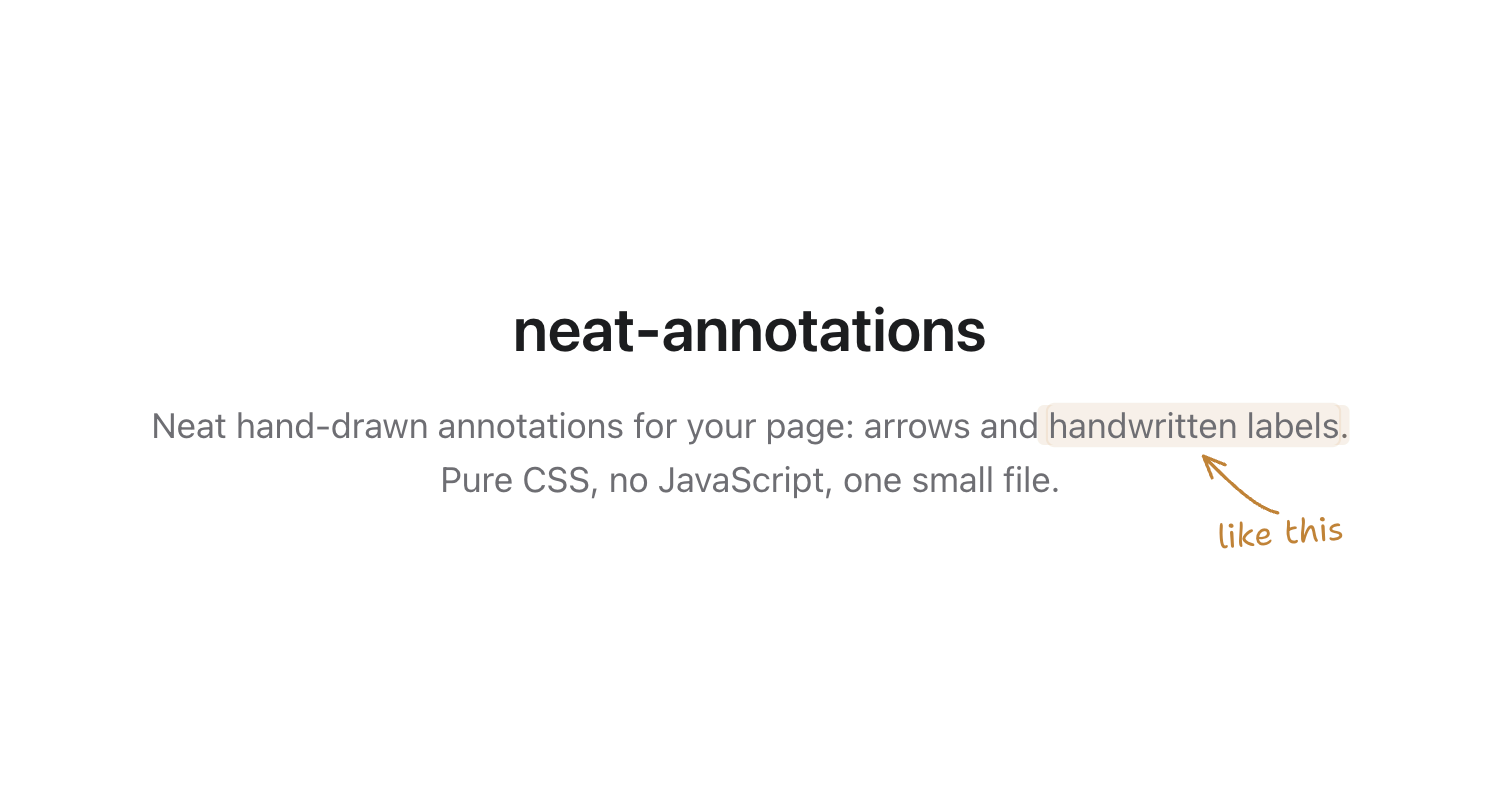
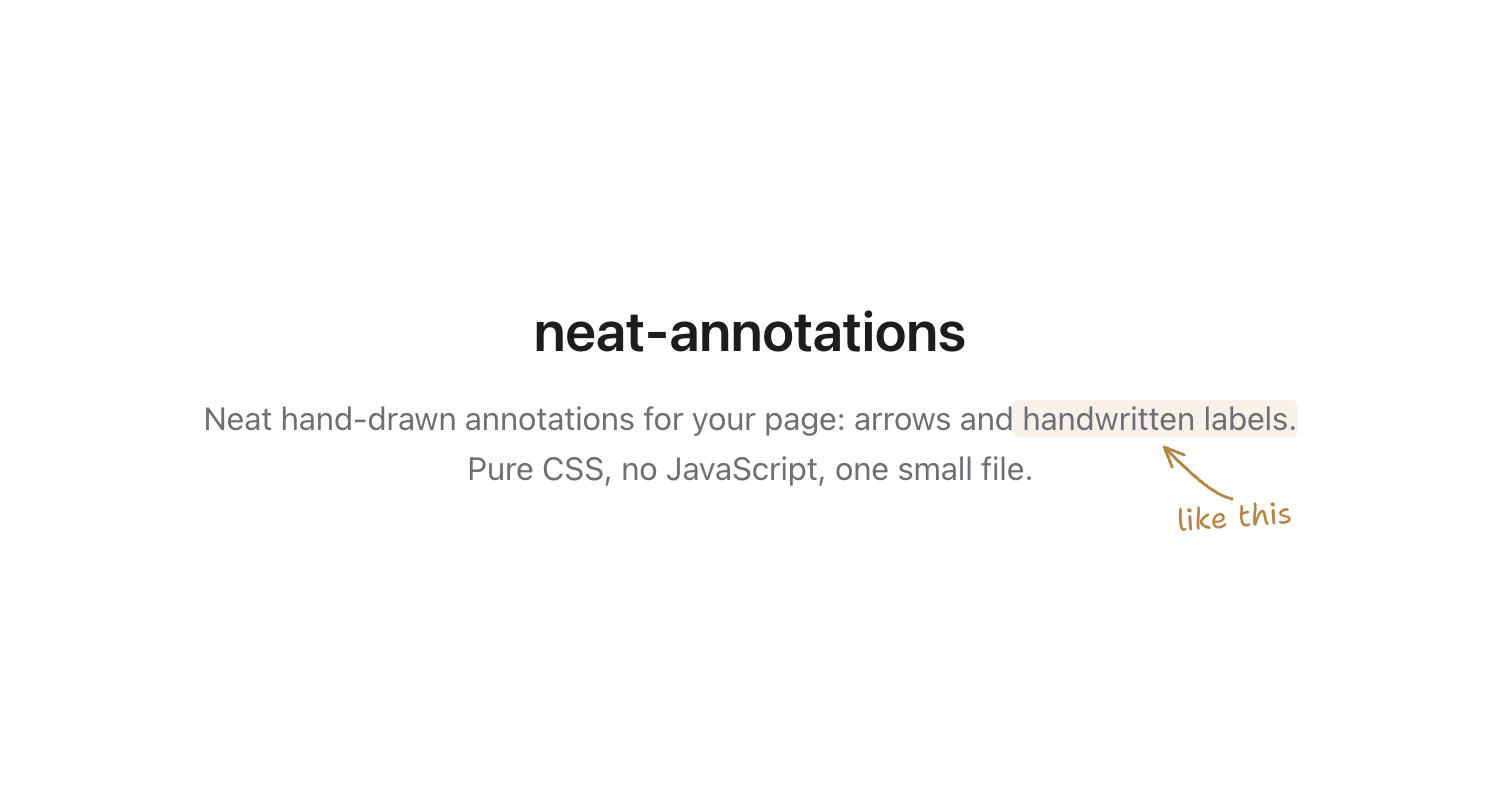
DOCS: add visual README examples
Restructure the README around quick-start and API sections, add Retina examples for basic use, directions, and colors, and keep a reusable HTML source for all preview assets.

Changed region(s): [[0.092, 0.5178, 0.8893, 0.7005], [0.3373, 0.3959, 0.6747, 0.4569]]

diff --git a/render-previews.html b/render-previews.html
@@ -1,0 +1,98 @@
+<!doctype html>
+<html lang="en">
+<head>
+<meta charset="utf-8">
+<meta name="viewport" content="width=device-width, initial-scale=1">
+<title>neat-annotations preview sources</title>
+<link rel="preconnect" href="https://fonts.googleapis.com">
+<link rel="preconnect" href="https://fonts.gstatic.com" crossorigin>
+<link href="https://fonts.googleapis.com/css2?family=Shantell+Sans:wght@400;500;600&display=swap" rel="stylesheet">
+<link rel="stylesheet" href="neat-annotations.css">
+<style>
+  :root { color-scheme: light; --ink: #1d1d1f; --ink-2: #6e6e73; }
+  * { box-sizing: border-box; }
+  body { margin: 0; padding: 48px; background: #ececef; color: var(--ink); font: 16px/1.55 -apple-system, BlinkMacSystemFont, "SF Pro Text", "Helvetica Neue", Arial, sans-serif; -webkit-font-smoothing: antialiased; }
+  .preview-source { width: fit-content; margin: 0 auto 64px; }
+  .preview-source:last-child { margin-bottom: 0; }
+  .preview-source h2 { margin: 0 0 12px; color: #6e6e73; font-size: 13px; font-weight: 600; }
+  .preview-frame { position: relative; overflow: hidden; background: #fff; }
+
+  #social-preview { display: grid; width: 750px; height: 394px; place-items: center; text-align: center; }
+  .social-preview-copy { transform: translateY(-2px); }
+  .social-preview-copy h1 { margin: 0 0 10px; font-size: 28px; font-weight: 600; letter-spacing: -.01em; }
+  .social-preview-copy p { margin: 0; color: var(--ink-2); }
+
+  #readme-basic { display: grid; width: 1000px; height: 450px; place-items: center; font-size: 24px; }
+  .readme-basic-copy { transform: translateY(-34px); }
+
+  #readme-directions { display: grid; width: 1000px; height: 500px; place-items: center; }
+  .readme-directions-grid { display: grid; grid-template-areas: "nw n ne" "w copy e" "sw s se"; grid-template-columns: repeat(3, minmax(0, 1fr)); width: 860px; }
+  .readme-direction { display: flex; align-items: center; justify-content: center; min-width: 0; height: 100px; }
+  .readme-direction-nw { grid-area: nw; }
+  .readme-direction-n { grid-area: n; }
+  .readme-direction-ne { grid-area: ne; }
+  .readme-direction-w { grid-area: w; }
+  .readme-directions-copy { grid-area: copy; align-self: center; padding: 20px; color: var(--ink-2); font-size: 14px; line-height: 1.45; text-align: center; }
+  .readme-direction-e { grid-area: e; }
+  .readme-direction-sw { grid-area: sw; }
+  .readme-direction-s { grid-area: s; }
+  .readme-direction-se { grid-area: se; }
+
+  #readme-colors { display: grid; width: 1000px; height: 280px; align-content: center; }
+  .readme-colors-copy { margin: 0 0 30px; color: var(--ink-2); text-align: center; }
+  .readme-colors-grid { display: grid; grid-template-columns: repeat(7, minmax(0, 1fr)); align-items: start; justify-items: center; padding: 0 36px 48px; }
+  #readme-colors .ann-rainbow { animation: none; }
+</style>
+</head>
+<body>
+<article class="preview-source">
+  <h2>social-preview.png · 1500 × 788 at 2×</h2>
+  <section class="preview-frame" id="social-preview">
+    <div class="social-preview-copy">
+      <h1>neat-annotations</h1>
+      <p>Neat hand-drawn annotations for your page: arrows and <span class="ann ann-nw ann-amber" data-note="like this">handwritten labels</span>.<br>Pure CSS, no JavaScript, one small file.</p>
+    </div>
+  </section>
+</article>
+
+<article class="preview-source">
+  <h2>assets/readme-basic.png · 2000 × 900 at 2×</h2>
+  <section class="preview-frame" id="readme-basic">
+    <div class="readme-basic-copy">The dashboard updates <span class="ann ann-n ann-amber" data-note="no refresh needed">in real time</span></div>
+  </section>
+</article>
+
+<article class="preview-source">
+  <h2>assets/readme-directions.png · 2000 × 1000 at 2×</h2>
+  <section class="preview-frame" id="readme-directions">
+    <div class="readme-directions-grid">
+      <div class="readme-direction readme-direction-nw"><span class="ann ann-nw" data-note=".ann-nw">target</span></div>
+      <div class="readme-direction readme-direction-n"><span class="ann ann-n" data-note=".ann-n">target</span></div>
+      <div class="readme-direction readme-direction-ne"><span class="ann ann-ne" data-note=".ann-ne">target</span></div>
+      <div class="readme-direction readme-direction-w"><span class="ann ann-w" data-note=".ann-w">target</span></div>
+      <div class="readme-directions-copy">Follow compass directions for arrows.</div>
+      <div class="readme-direction readme-direction-e"><span class="ann ann-e" data-note=".ann-e">target</span></div>
+      <div class="readme-direction readme-direction-sw"><span class="ann ann-sw" data-note=".ann-sw">target</span></div>
+      <div class="readme-direction readme-direction-s"><span class="ann ann-s" data-note=".ann-s">target</span></div>
+      <div class="readme-direction readme-direction-se"><span class="ann ann-se" data-note=".ann-se">target</span></div>
+    </div>
+  </section>
+</article>
+
+<article class="preview-source">
+  <h2>assets/readme-colors.png · 2000 × 560 at 2×</h2>
+  <section class="preview-frame" id="readme-colors">
+    <p class="readme-colors-copy">Five colors and an animated rainbow, plus a warm-gray default.</p>
+    <div class="readme-colors-grid">
+      <span class="ann ann-n" data-note="default">plain</span>
+      <span class="ann ann-n ann-amber" data-note="ann-amber">amber</span>
+      <span class="ann ann-n ann-blue" data-note="ann-blue">blue</span>
+      <span class="ann ann-n ann-green" data-note="ann-green">green</span>
+      <span class="ann ann-n ann-red" data-note="ann-red">red</span>
+      <span class="ann ann-n ann-purple" data-note="ann-purple">purple</span>
+      <span class="ann ann-n ann-rainbow" data-note="ann-rainbow">rainbow</span>
+    </div>
+  </section>
+</article>
+</body>
+</html>

diff --git a/README.md b/README.md
@@ -4,83 +4,113 @@
 
 # neat-annotations
 
-Neat hand-drawn CSS annotations: arrows and handwritten labels pointing at things on your page. Pure CSS, no JavaScript, no build step — one self-contained file.
+Hand-drawn arrows and handwritten labels for your website. Pure CSS, no JavaScript, no build step — one self-contained file.
 
-**[Demo →](https://syabro.github.io/neat-annotations/)**
+[Demo](https://neat-annotations.syabro.com/) · [CSS file](neat-annotations.css) · [GitHub](https://github.com/syabro/neat-annotations)
 
-## Use
+## Quick start
 
-Copy [`neat-annotations.css`](neat-annotations.css) into your project, or hotlink it:
+Add the stylesheet from jsDelivr, or download [`neat-annotations.css`](neat-annotations.css) and serve it locally:
 
 ```html
 <link rel="stylesheet" href="https://cdn.jsdelivr.net/gh/syabro/neat-annotations/neat-annotations.css">
 ```
 
-Labels look best with [Shantell Sans](https://fonts.google.com/specimen/Shantell+Sans) (optional — falls back to system `cursive`):
+Wrap the element you want to annotate:
+
+```html
+The dashboard updates <span class="ann ann-n ann-amber" data-note="no refresh needed">in real time</span>
+```
+
+Shantell Sans is optional. Load it to match the demo; otherwise labels fall back to a cursive font:
 
 ```html
 <link href="https://fonts.googleapis.com/css2?family=Shantell+Sans:wght@400;500;600&display=swap" rel="stylesheet">
 ```
 
-Then wrap any inline element:
+**Layout note:** annotations are positioned outside their target and do not reserve space. Leave enough margin around annotated lines for the arrow and label.
 
-```html
-<span class="ann ann-n ann-amber" data-note="open task">[ ]</span>
-```
+<p align="center">
+  <img src="assets/readme-basic.png" alt="A simple annotation pointing to highlighted text" width="1000">
+</p>
 
 ## API
 
-Start with the base class, then add a direction and color when needed. The note text comes from `data-note`; without it, the element keeps only its color highlight.
+Start with `ann`, then add a direction and color when needed. The label comes from `data-note`.
 
-**Directions** — where the arrow points (`ann-n` points north, so the annotation sits below its target):
+### Directions
 
-`ann-n` `ann-ne` `ann-e` `ann-se` `ann-s` `ann-sw` `ann-w` `ann-nw`
+A direction class names where the arrow points. For example, `ann-n` places the label below the target and points the arrow north toward it.
 
-**Colors** — default is a warm gray; `ann-rainbow` cycles through hues and respects reduced-motion preferences:
+<p align="center">
+  <img src="assets/readme-directions.png" alt="The eight annotation arrow directions" width="1000">
+</p>
 
-`ann-amber` `ann-blue` `ann-green` `ann-red` `ann-purple` `ann-rainbow`
+`ann-n` · `ann-ne` · `ann-e` · `ann-se` · `ann-s` · `ann-sw` · `ann-w` · `ann-nw`
 
-Set any CSS color directly on the annotation:
+```html
+<span class="ann ann-n" data-note="points north">target</span>
+```
+
+### Colors
+
+The default is warm gray. Six built-in classes change the arrow, label, and target highlight together:
+
+<p align="center">
+  <img src="assets/readme-colors.png" alt="Built-in annotation colors" width="1000">
+</p>
+
+`ann-amber` · `ann-blue` · `ann-green` · `ann-red` · `ann-purple` · `ann-rainbow`
+
+`ann-rainbow` animates through hues and respects `prefers-reduced-motion`.
+
+### Custom colors
+
+Set any CSS color directly with `--ann-color`:
 
 ```html
 <span class="ann ann-n" data-note="..." style="--ann-color: #ff1493">hot pink</span>
 ```
 
-**Highlight only** — use an annotation as a text marker by omitting `data-note` and the direction class:
+### Highlight only
+
+Omit `data-note` and the direction class to use an annotation as a text marker without an arrow or label:
 
 ```html
 <span class="ann ann-amber">important</span>
 ```
 
-**Target highlight** — add `ann-no-mark` when the target already has its own fill:
+### Target highlight
+
+Add `ann-no-mark` when the target already has its own fill:
 
 ```html
 <span class="ann ann-n ann-purple ann-no-mark" data-note="keeps its own fill"><span class="badge">stable</span></span>
 ```
 
-**CSS variables** — set them on the element for fine-tuning:
+Annotations can be nested to point at one target from different sides. Long notes wrap according to `--ann-label-max-width`. See the [demo](https://neat-annotations.syabro.com/) for both patterns.
 
-| Variable | Default | What it does |
+## Fine-tuning
+
+Set these variables directly on an annotated element:
+
+| Variable | Default | What it controls |
 | --- | --- | --- |
 | `--ann-color` | warm gray | arrow and label color |
-| `--ann-mark` | 10% in light mode, 24% with stronger chroma in dark mode | custom target highlight color; `ann-no-mark` removes it |
+| `--ann-mark` | theme-aware tint | target highlight; `ann-no-mark` removes it |
 | `--ann-font` | `'Shantell Sans', cursive` | label font |
 | `--ann-target-gap` | `5px` | gap between target and arrow |
 | `--ann-label-gap` | `6px` | gap between arrow and label |
 | `--ann-lower-label-gap` | `-4px` | adjustment for labels below the target |
-| `--ann-label-max-width` | `150px` | maximum label width before text wraps |
-| `--ann-arrow-x` / `--ann-arrow-y` | `0px` | nudge the arrow |
-| `--ann-text-x` / `--ann-text-y` | `0px` / `5px` | nudge the label |
+| `--ann-label-max-width` | `150px` | maximum label width before wrapping |
+| `--ann-arrow-x` / `--ann-arrow-y` | `0px` | arrow position |
+| `--ann-text-x` / `--ann-text-y` | `0px` / `5px` | label position |
 | `--ann-rotate` | `-4deg` | label tilt |
-
-Annotations are positioned outside the element and don't reserve space — give annotated lines some breathing room (margins).
 
 ## Accessibility
 
-Annotations are visual enhancements. Do not use `data-note` as the only source of instructions, status, validation, or other essential information. When a note matters to understanding or operating the page, repeat it in visible HTML or connect a real description to the target with `aria-describedby`.
-
-The `ann-rainbow` animation respects `prefers-reduced-motion`.
+Annotations are visual enhancements. Do not use `data-note` as the only source of instructions, status, validation, or other essential information. Repeat important content in visible HTML or connect a real description to the target with `aria-describedby`.
 
 ## License
 
-MIT
+[MIT](LICENSE)